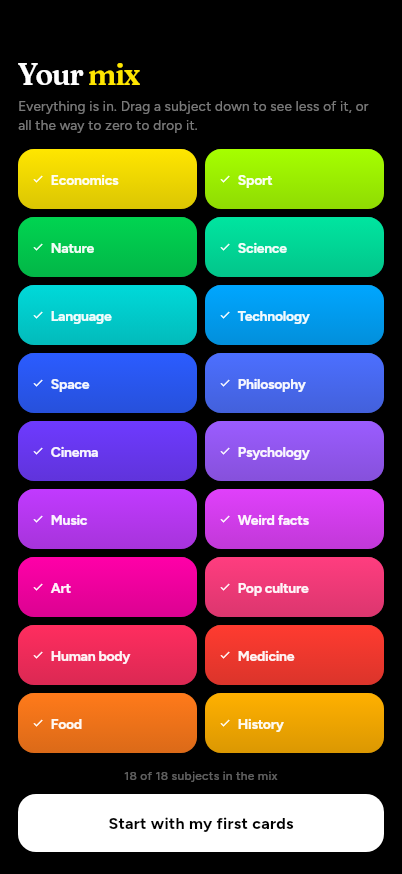
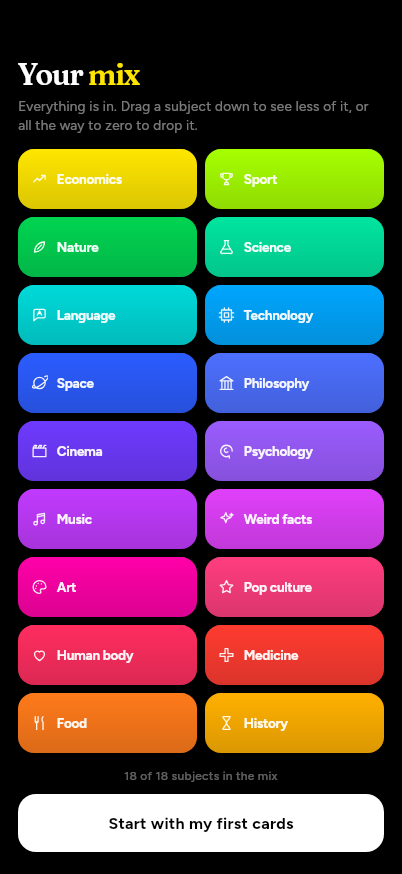
Give every subject its own mark, from artboard 56
56a is 50a with the tick replaced: each tile now carries its subject's own
line icon rather than the same check eighteen times, which told you a tile
was on and nothing about what it was. A flask for Science, a ringed planet
for Space, a temple for Philosophy, a chip for Technology, an hourglass for
History.

The paths are the artboard's own, kept as source on its 24-unit grid at its
stroke weight, so this is its drawing and not a redrawing of it. White at
92% over the fill, 34% when a subject is out — the artboard's numbers. The
gap and the name's size follow it too.

flutter_svg renders them. Eight of the eighteen are drawn with elliptical
arcs, and hand-rolling that conversion to get a flask slightly wrong is not
a saving.

Checked by cropping all eighteen out of the render and enlarging them.

Claude-Session: https://claude.ai/code/session_01N7S5NWHHUHV1bxBrKEgGPn

diff --git a/lib/screens/mix_screen.dart b/lib/screens/mix_screen.dart
@@ -1,6 +1,9 @@
 import 'package:flutter/material.dart';
 import 'package:flutter/services.dart';
 
+import 'package:flutter_svg/flutter_svg.dart';
+
+import '../data/subject_icons.dart';
 import '../theme.dart';
 
 /// One subject on the mix grid.
@@ -393,33 +396,31 @@ class _MixTile extends StatelessWidget {
                     // and the label rides at the top instead of the middle.
                     Positioned.fill(
                       child: Padding(
-                        padding: const EdgeInsets.symmetric(horizontal: 14),
+                        padding: const EdgeInsets.symmetric(horizontal: 13),
                         child: Row(
                           children: [
+                            // The subject's own mark, not a tick. Every
+                            // tile carried the same check, which told you a
+                            // tile was on and nothing about what it was.
                             AnimatedOpacity(
                               duration: const Duration(milliseconds: 150),
-                              opacity: live ? 1 : 0,
-                              // An icon, not the ✓ character: Figtree does not
-                              // carry that glyph and it came out as an empty
-                              // box.
-                              // The canvas sets a plain check glyph at
-                              // 10.5px; Figtree has no such glyph, and the
-                              // rounded icon came out far heavier than the
-                              // mark it stands in for.
-                              child: const Icon(
-                                Icons.check,
-                                size: 12,
-                                color: Colors.white,
+                              opacity: live ? 0.92 : 0.34,
+                              child: SizedBox(
+                                width: 17,
+                                height: 17,
+                                child: SvgPicture.string(
+                                  subjectIconSvg(subject.name),
+                                ),
                               ),
                             ),
-                            const SizedBox(width: 7),
+                            const SizedBox(width: 9),
                             Expanded(
                               child: Text(
                                 subject.name,
                                 maxLines: 1,
                                 overflow: TextOverflow.ellipsis,
                                 style: AppText.body(
-                                  size: 14,
+                                  size: 13.5,
                                   weight: FontWeight.w700,
                                   height: 1.1,
                                   spacing: -0.3,

diff --git a/lib/data/subject_icons.dart b/lib/data/subject_icons.dart
@@ -1,0 +1,39 @@
+/// The subjects' own marks, taken from artboard 56.
+///
+/// SVG path data on a 24-unit grid at one stroke weight, drawn rather than
+/// picked from an icon font: a flask for Science, a ringed planet for Space,
+/// a temple for Philosophy. Kept as source paths so they are the artboard's
+/// drawing and not a redrawing of it.
+const Map<String, String> kSubjectIcons = {
+  'Economics': 'M4 16l5-5 3 3 7-7 M15 7h5v5',
+  'Sport': 'M7 4h10v4a5 5 0 0 1-10 0V4z M7 5H4v2a3 3 0 0 0 3 3 M17 5h3v2a3 3 0 0 1-3 3 M12 13v4 M9 20h6l-1-3h-4z',
+  'Nature': 'M5 19C5 11 11 5 19 5c0 8-6 14-14 14z M9 15l6-6',
+  'Science': 'M9 3h6 M10 3v6l-5.2 8.4A2 2 0 0 0 6.5 21h11a2 2 0 0 0 1.7-3.6L14 9V3 M7.5 15h9',
+  'Language': 'M4 6a2 2 0 0 1 2-2h12a2 2 0 0 1 2 2v8a2 2 0 0 1-2 2H9l-5 4V6z M9 12l3-6 3 6 M10.2 10h3.6',
+  'Technology': 'M9 9h6v6H9z M5 5h14v14H5z M9 5V2 M15 5V2 M9 22v-3 M15 22v-3 M5 9H2 M5 15H2 M22 9h-3 M22 15h-3',
+  'Space': 'M12 4a8 8 0 1 0 0 16 8 8 0 0 0 0-16z M4.5 14.5c-2 1.5-2.8 3-2 3.9 1.4 1.6 7.3-.6 13.2-5s9.6-9.3 8.2-10.9c-.8-.9-2.4-.6-4.4.5',
+  'Philosophy':
+      'M3 9h18L12 3 3 9z M5.5 9v10 M9.8 9v10 M14.2 9v10 M18.5 9v10 M3 21h18',
+  'Cinema': 'M3 8h18v12H3z M3 8l2-4h3l-2 4 M10 8l2-4h3l-2 4 M17 8l2-4h2',
+  'Psychology': 'M20 12a8 8 0 1 0-4 6.9V22 M12 8a3 3 0 1 0 2 5.2',
+  'Music': 'M9 18V6l10-2v12 M9 18a2.5 2.5 0 1 1-5 0 2.5 2.5 0 0 1 5 0z M19 16a2.5 2.5 0 1 1-5 0 2.5 2.5 0 0 1 5 0z M9 9l10-2',
+  'Weird facts': 'M11 3l1.9 5.1L18 10l-5.1 1.9L11 17l-1.9-5.1L4 10l5.1-1.9L11 3z M19 4l.6 1.7 1.7.6-1.7.6-.6 1.7-.6-1.7-1.7-.6 1.7-.6L19 4z',
+  'Art': 'M12 3a9 9 0 1 0 0 18 2 2 0 0 0 1.6-3.2 2 2 0 0 1 1.6-3.2H18a3 3 0 0 0 3-3c0-4.9-4-8.6-9-8.6z M7.6 10.6h.01 M10.1 7.1h.01 M14.6 7.6h.01 M6.6 14.1h.01',
+  'Pop culture': 'M12 3l2.7 5.6 6.1.9-4.4 4.3 1 6.1-5.4-2.9-5.4 2.9 1-6.1L3.2 9.5l6.1-.9L12 3z',
+  'Human body':
+      'M12 20s-7-4.6-7-9.4A4 4 0 0 1 12 8a4 4 0 0 1 7 2.6C19 15.4 12 20 12 20z',
+  'Medicine': 'M10 3h4v7h7v4h-7v7h-4v-7H3v-4h7V3z',
+  'Food': 'M6 3v7a2 2 0 0 0 4 0V3 M8 10v11 M17 3c-2 2-2 6 0 8v10',
+  'History':
+      'M7 3h10 M7 21h10 M7 3c0 4 5 5 5 9s-5 5-5 9 M17 3c0 4-5 5-5 9s5 5 5 9',
+};
+
+/// The icon wrapped as a standalone SVG document, which is what the renderer
+/// takes. White, because it always sits on the subject's own fill.
+String subjectIconSvg(String subject) {
+  final path = kSubjectIcons[subject];
+  if (path == null) return '';
+  return '<svg xmlns="http://www.w3.org/2000/svg" viewBox="0 0 24 24">'
+      '<path d="$path" fill="none" stroke="#ffffff" stroke-width="1.9" '
+      'stroke-linecap="round" stroke-linejoin="round"/></svg>';
+}
